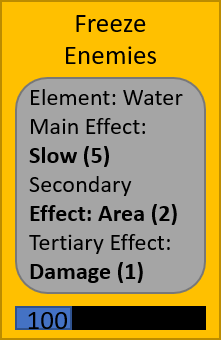
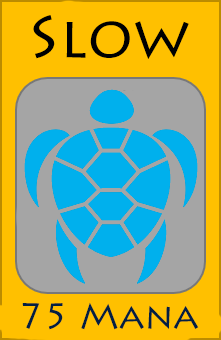
Balance changes + New Card Images.

diff --git a/Assets/Scripts/Units/Enemy/EnemySpawner.cs b/Assets/Scripts/Units/Enemy/EnemySpawner.cs
@@ -19,19 +19,51 @@ public class EnemySpawner : MonoBehaviour
         
     }
 
-    public void SpawnEnemies()
+    public void SpawnEnemies(int Wave)
     {
-        unitPosition = new Vector3[5];
-        unitPosition[0] = new Vector3(transform.position.x, transform.position.y - 2, 0);
-        unitPosition[1] = new Vector3(transform.position.x, transform.position.y - 1, 0);
-        unitPosition[2] = new Vector3(transform.position.x, transform.position.y + 0, 0);
-        unitPosition[3] = new Vector3(transform.position.x, transform.position.y + 1, 0);
-        unitPosition[4] = new Vector3(transform.position.x, transform.position.y + 2, 0);
-
-
-        for (int i = 0; i < 5; i++)
+        if (Wave <= 3)
         {
-            EnemyBehavior enemyInst = Instantiate(enemyUnit, unitPosition[i], Quaternion.identity);
+            unitPosition = new Vector3[5];
+            unitPosition[0] = new Vector3(transform.position.x, transform.position.y - 2, 0);
+            unitPosition[1] = new Vector3(transform.position.x, transform.position.y - 1, 0);
+            unitPosition[2] = new Vector3(transform.position.x, transform.position.y + 0, 0);
+            unitPosition[3] = new Vector3(transform.position.x, transform.position.y + 1, 0);
+            unitPosition[4] = new Vector3(transform.position.x, transform.position.y + 2, 0);
+            for (int i = 0; i < 5; i++)
+            {
+                EnemyBehavior enemyInst = Instantiate(enemyUnit, unitPosition[i], Quaternion.identity);
+            }
+        }
+        if (Wave == 4)
+        {
+            unitPosition = new Vector3[7];
+            unitPosition[0] = new Vector3(transform.position.x, transform.position.y - 2, 0);
+            unitPosition[1] = new Vector3(transform.position.x, transform.position.y - 1, 0);
+            unitPosition[2] = new Vector3(transform.position.x, transform.position.y + 0, 0);
+            unitPosition[3] = new Vector3(transform.position.x, transform.position.y + 1, 0);
+            unitPosition[4] = new Vector3(transform.position.x, transform.position.y + 2, 0);
+            unitPosition[5] = new Vector3(transform.position.x + 1, transform.position.y - 2, 0);
+            unitPosition[6] = new Vector3(transform.position.x + 1, transform.position.y + 2, 0);
+            for (int i = 0; i < 7; i++)
+            {
+                EnemyBehavior enemyInst = Instantiate(enemyUnit, unitPosition[i], Quaternion.identity);
+            }
+        }
+        if (Wave == 5)
+        {
+            unitPosition = new Vector3[8];
+            unitPosition[0] = new Vector3(transform.position.x, transform.position.y - 2, 0);
+            unitPosition[1] = new Vector3(transform.position.x, transform.position.y - 1, 0);
+            unitPosition[2] = new Vector3(transform.position.x, transform.position.y + 0, 0);
+            unitPosition[3] = new Vector3(transform.position.x, transform.position.y + 1, 0);
+            unitPosition[4] = new Vector3(transform.position.x, transform.position.y + 2, 0);
+            unitPosition[5] = new Vector3(transform.position.x + 1, transform.position.y - 2, 0);
+            unitPosition[6] = new Vector3(transform.position.x + 1, transform.position.y + 2, 0);
+            unitPosition[7] = new Vector3(transform.position.x + 1, transform.position.y + 0, 0);
+            for (int i = 0; i < 8; i++)
+            {
+                EnemyBehavior enemyInst = Instantiate(enemyUnit, unitPosition[i], Quaternion.identity);
+            }
         }
     }
 }

diff --git a/Assets/Scripts/Units/GeneralUnitBehavior.cs b/Assets/Scripts/Units/GeneralUnitBehavior.cs
@@ -19,6 +19,7 @@ public class GeneralUnitBehavior : MonoBehaviour
     public bool startMove = false;
     public bool shouldMove = false;
     public bool doneSummon = false;
+    public bool isUnderEffect = false;
     public Color originalColor;
     public AttackCollision attackStick;
     public GeneralEffect particleEffect;
@@ -44,7 +45,7 @@ public class GeneralUnitBehavior : MonoBehaviour
             {
                 particleEffect = Resources.Load<GeneralEffect>("Effects/FreezeEffect");
                 Instantiate(particleEffect, transform.position, transform.rotation);
-                particleEffect.timeDeath = 0.6f;
+                particleEffect.timeDeath = 0.3f;
             }
         }
         else
@@ -69,13 +70,16 @@ public class GeneralUnitBehavior : MonoBehaviour
         particleTime += Time.deltaTime;
         Vector3 pointTowards = transform.position.normalized;
         pointTowards.z = 0.0f;
-        Vector3 pointTarget = (mainTarget.transform.position - transform.position).normalized;
-        pointTowards.z = 0.0f;
-        float dotProduct = Vector3.Dot(pointTarget, transform.right);
-        float targetAngle = Vector3.Angle(pointTowards, pointTarget);
-        //Debug.Log(targetAngle);
-        Quaternion targetRotation = Quaternion.Euler(0, 0, -1 * Mathf.Sign(dotProduct) * targetAngle);
-        transform.rotation = Quaternion.Slerp(transform.rotation, transform.rotation * targetRotation, moveSpeed * 3 * Time.deltaTime);
+        if (mainTarget != null)
+        {
+            Vector3 pointTarget = (mainTarget.transform.position - transform.position).normalized;
+            pointTowards.z = 0.0f;
+            float dotProduct = Vector3.Dot(pointTarget, transform.right);
+            float targetAngle = Vector3.Angle(pointTowards, pointTarget);
+            //Debug.Log(targetAngle);
+            Quaternion targetRotation = Quaternion.Euler(0, 0, -1 * Mathf.Sign(dotProduct) * targetAngle);
+            transform.rotation = Quaternion.Slerp(transform.rotation, transform.rotation * targetRotation, moveSpeed * 3 * Time.deltaTime);
+        }
     }
 
     //função que vai definir os atributos da unidade ao summoná-la.
@@ -92,7 +96,7 @@ public class GeneralUnitBehavior : MonoBehaviour
     {
         health -= damage;
         //damage será devidamente multiplicada por valores futuros de tipo e elemento de dano, bem como resistências a elementos.
-        Debug.Log("I " + gameObject.name + " was hit for " + damage + " damage! Only " + (health) + " hitpoints remain");
+        //Debug.Log("I " + gameObject.name + " was hit for " + damage + " damage! Only " + (health) + " hitpoints remain");
 
         if (health <= 0)
         {
@@ -104,10 +108,12 @@ public class GeneralUnitBehavior : MonoBehaviour
 
     public void ApplyEffect(string effect)
     {
-        if (effect == "Slow")
+        if (effect == "Slow" && isUnderEffect == false)
         {
             moveSpeed = moveSpeed * 0.5f;
-            Debug.Log("I " + gameObject.name + ", am slowed!");
+            attackSpeed = attackSpeed * 0.75f;
+            isUnderEffect = true;
+            //Debug.Log("I " + gameObject.name + ", am slowed!");
         }
     }
 

diff --git a/Assets/Scripts/CardActivated/CardEffects.cs b/Assets/Scripts/CardActivated/CardEffects.cs
@@ -20,10 +20,23 @@ public class CardEffects : MonoBehaviour
 			{
 				if (effect == "Damage")
 				{
-                    enemy.GetComponent<EnemyBehavior>().OnHit((int) power);
-                    //fumaça
-                    particleEffect = Resources.Load<GeneralEffect>("Effects/FireEffect");
-                    Instantiate(particleEffect, enemy.transform.position, enemy.transform.rotation);
+                    int checkCritical = Random.Range(1, 5);
+                    if (checkCritical == 1)
+                    {
+                        enemy.GetComponent<EnemyBehavior>().OnHit((int)power*2);
+                        //fumaça
+                        particleEffect = Resources.Load<GeneralEffect>("Effects/FireEffectCrit");
+                        Instantiate(particleEffect, enemy.transform.position, enemy.transform.rotation);
+                        particleEffect.timeDeath = 0.6f;
+                    }
+                    else
+                    {
+                        enemy.GetComponent<EnemyBehavior>().OnHit((int)power);
+                        //fumaça
+                        particleEffect = Resources.Load<GeneralEffect>("Effects/FireEffect");
+                        Instantiate(particleEffect, enemy.transform.position, enemy.transform.rotation);
+                        particleEffect.timeDeath = 0.6f;
+                    }
                 }
                 if (effect == "Slow")
                 {

diff --git a/Assets/Scripts/Input/PlayButton.cs b/Assets/Scripts/Input/PlayButton.cs
@@ -48,7 +48,7 @@ public class PlayButton : MonoBehaviour
             if (timeUntil < 0)
             {
                 countdown.GetComponent<Text>().text = "Wave " + currentWave + "/" + numberWaves + " is here!";
-                enemySpawner.GetComponent<EnemySpawner>().SpawnEnemies();
+                enemySpawner.GetComponent<EnemySpawner>().SpawnEnemies(currentWave);
                 timeUntil = 5.0f;
                 waveCleared = false;
                 currentWave++;
@@ -62,6 +62,7 @@ public class PlayButton : MonoBehaviour
         {
             countdown.GetComponent<Text>().text = "All cleared!";
             winText.GetComponent<Text>().text = "You Win!\n Press R to reset and play again.";
+            Time.timeScale = 0;
         }
 
     }

diff --git a/Assets/Scripts/Stats/PlayerStats.cs b/Assets/Scripts/Stats/PlayerStats.cs
@@ -17,6 +17,7 @@ public class PlayerStats : MonoBehaviour
 	
 	public GameObject manaBar;
 	public GameObject manaToSpend;
+    public GameObject gameRun;
 	private SpriteRenderer manaBarSpriteRenderer;
 	private SpriteRenderer manaToSpendSpriteRenderer;
 	private float manaBarFullLength;
@@ -83,7 +84,7 @@ public class PlayerStats : MonoBehaviour
 
 	void FixedUpdate()
 	{
-		if (currentMana < maxMana)
+        if (currentMana < maxMana && gameRun.GetComponent<PlayButton>().hasStarted == true)
 		{
 			accumulatedManaRegen += manaRegenSpeed * Time.deltaTime;
 			if (accumulatedManaRegen > 1.0f)

diff --git a/Assets/Scripts/Units/Allied/AllyBehavior.cs b/Assets/Scripts/Units/Allied/AllyBehavior.cs
@@ -97,7 +97,7 @@ public class AllyBehavior : GeneralUnitBehavior
 
     new void OnTriggerStay2D(Collider2D collisionTarget) //if object stays connected to target it stops moving.
     {
-        if (collisionTarget.tag == mainTarget.tag)
+        if (mainTarget != null && collisionTarget.tag == mainTarget.tag)
         {
             base.OnTriggerStay2D(collisionTarget);
             shouldMove = false;

diff --git a/Assets/Scripts/Input/TestCommands.cs b/Assets/Scripts/Input/TestCommands.cs
@@ -22,8 +22,8 @@ public class TestCommands : MonoBehaviour
     {
         if (Input.GetKeyDown("r"))
         {
-            SceneManager.LoadScene(SceneManager.GetActiveScene().buildIndex);
             Time.timeScale = 1;
+            SceneManager.LoadScene(SceneManager.GetActiveScene().buildIndex);
         }
         if (Input.GetKeyDown("e"))//spawns enemies.
         {

diff --git a/Assets/Scripts/Input/PauseButton.cs b/Assets/Scripts/Input/PauseButton.cs
@@ -9,13 +9,16 @@ public class PauseButton : MonoBehaviour
     // Start is called before the first frame update
     void Start()
     {
-        
+       
     }
 
     // Update is called once per frame
     void Update()
     {
-        
+        if (isPaused == false)
+        {
+            Time.timeScale = 1;
+        }
     }
 
     public void OnMouseDown()
